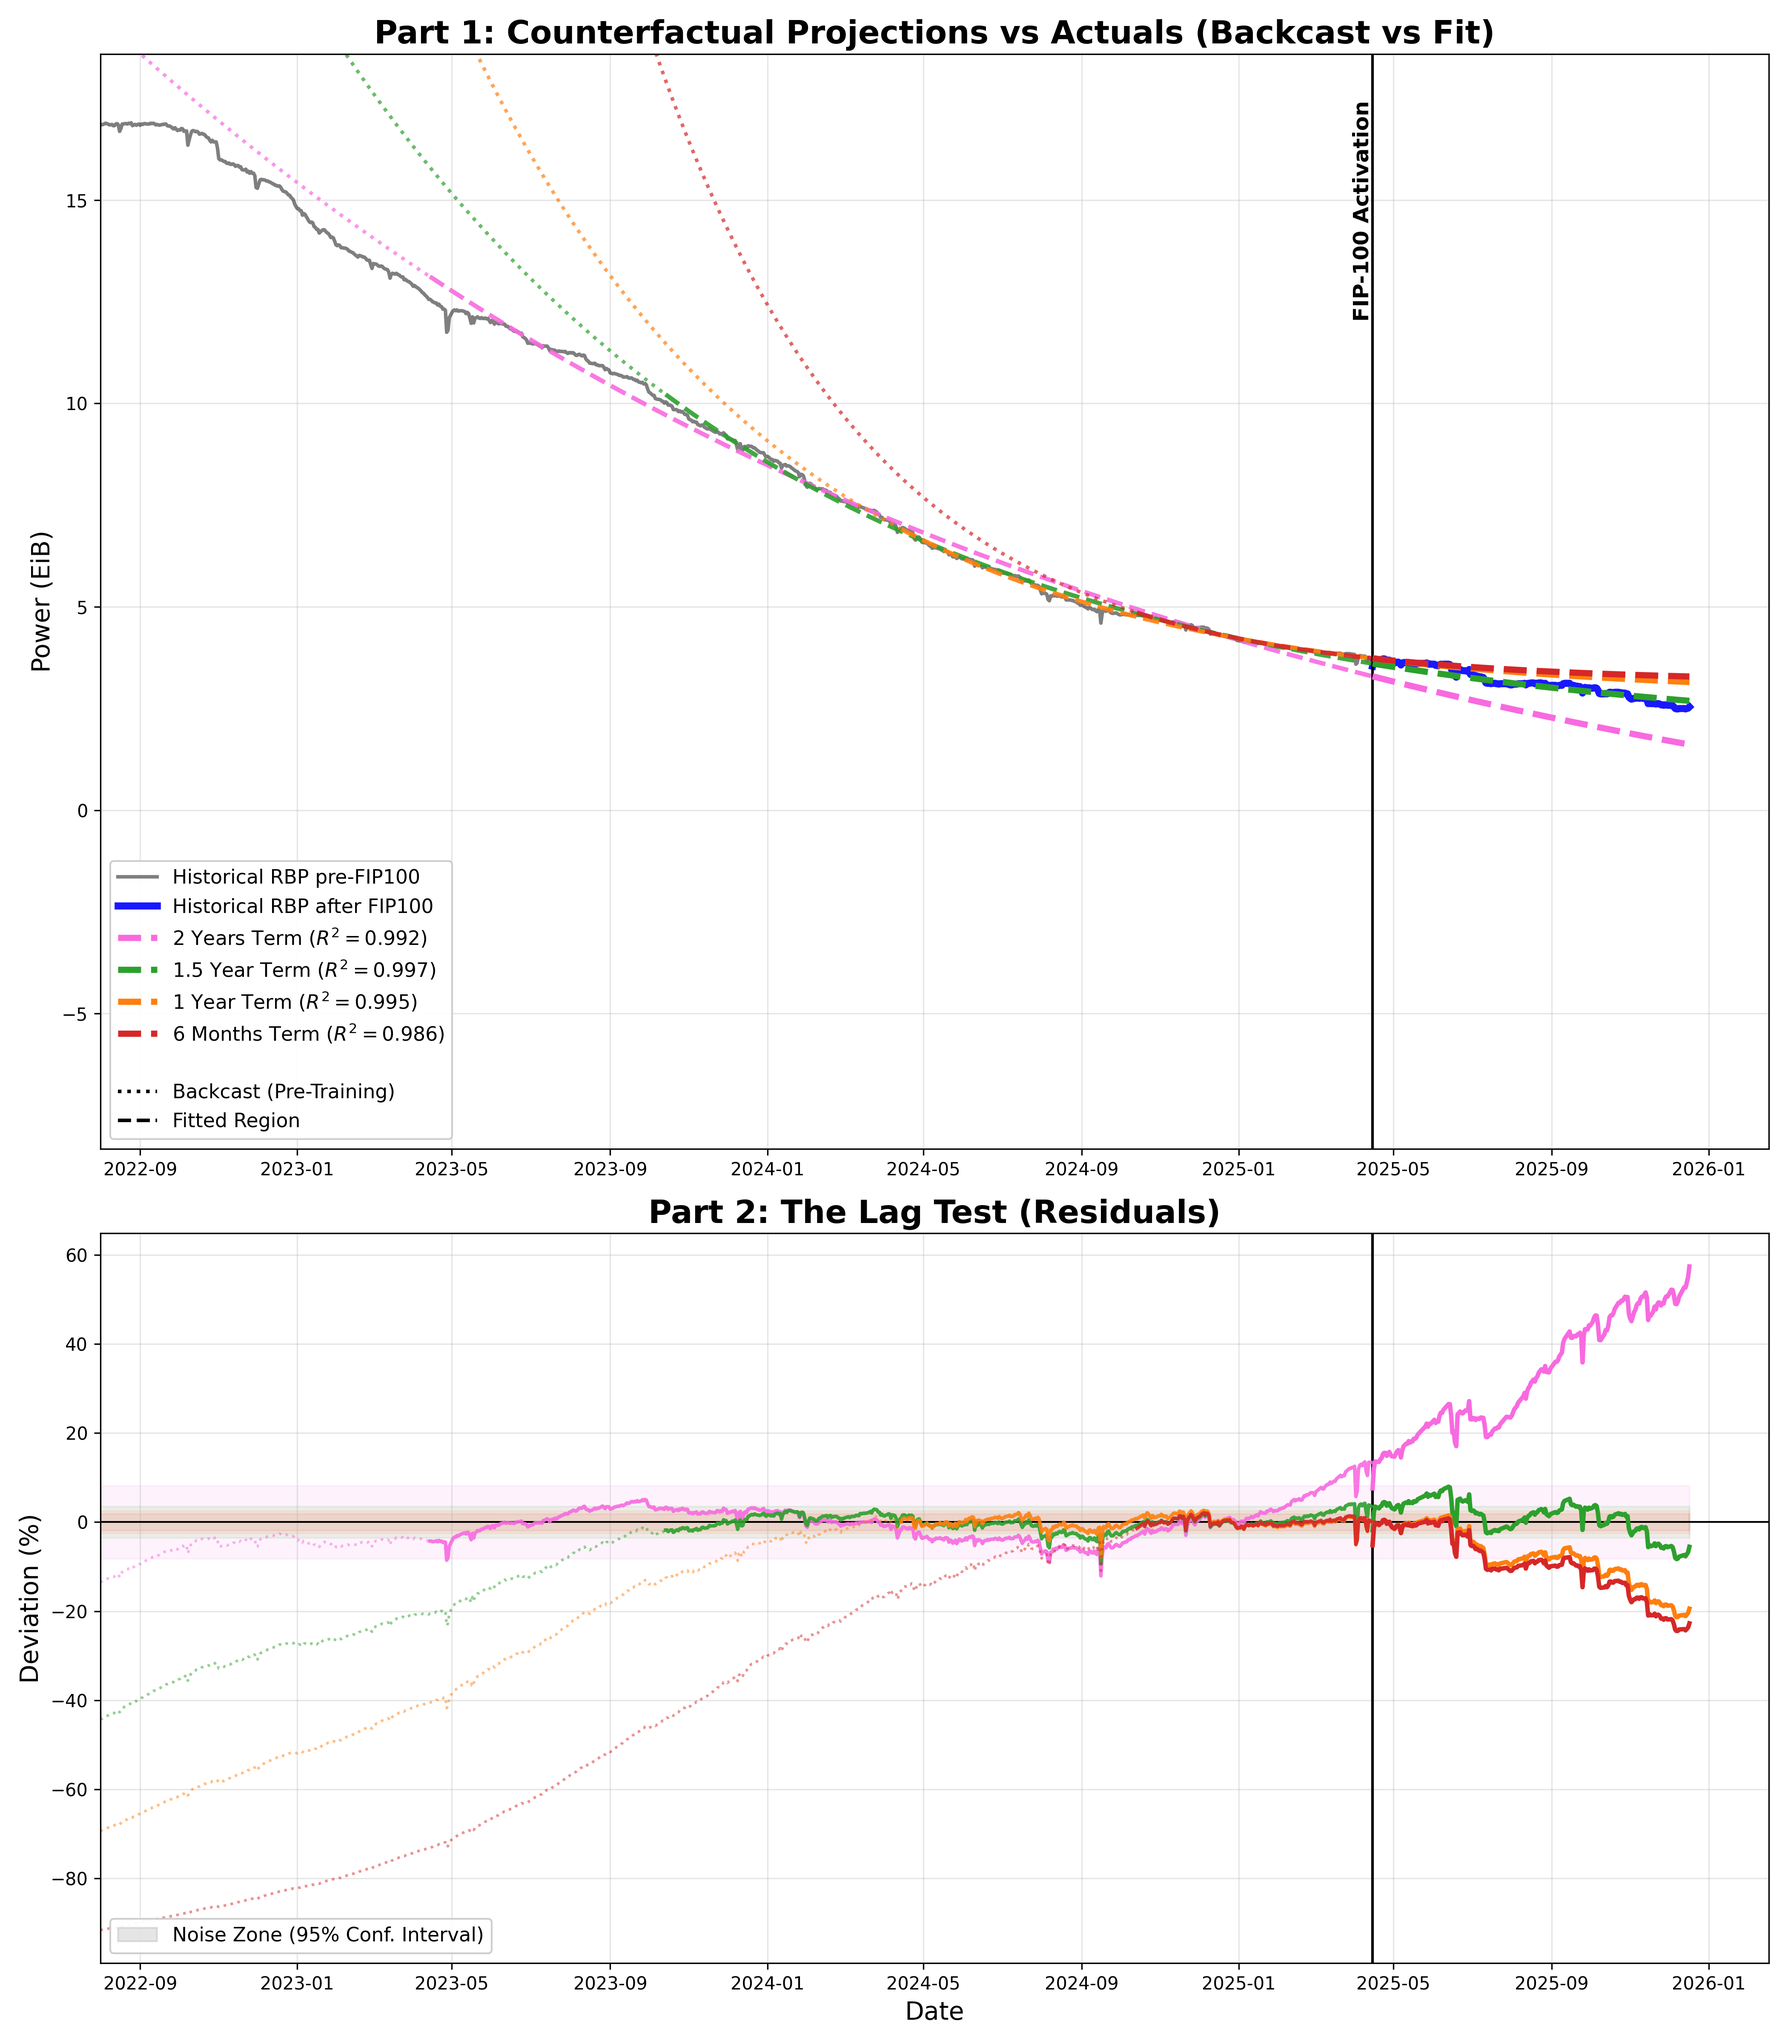
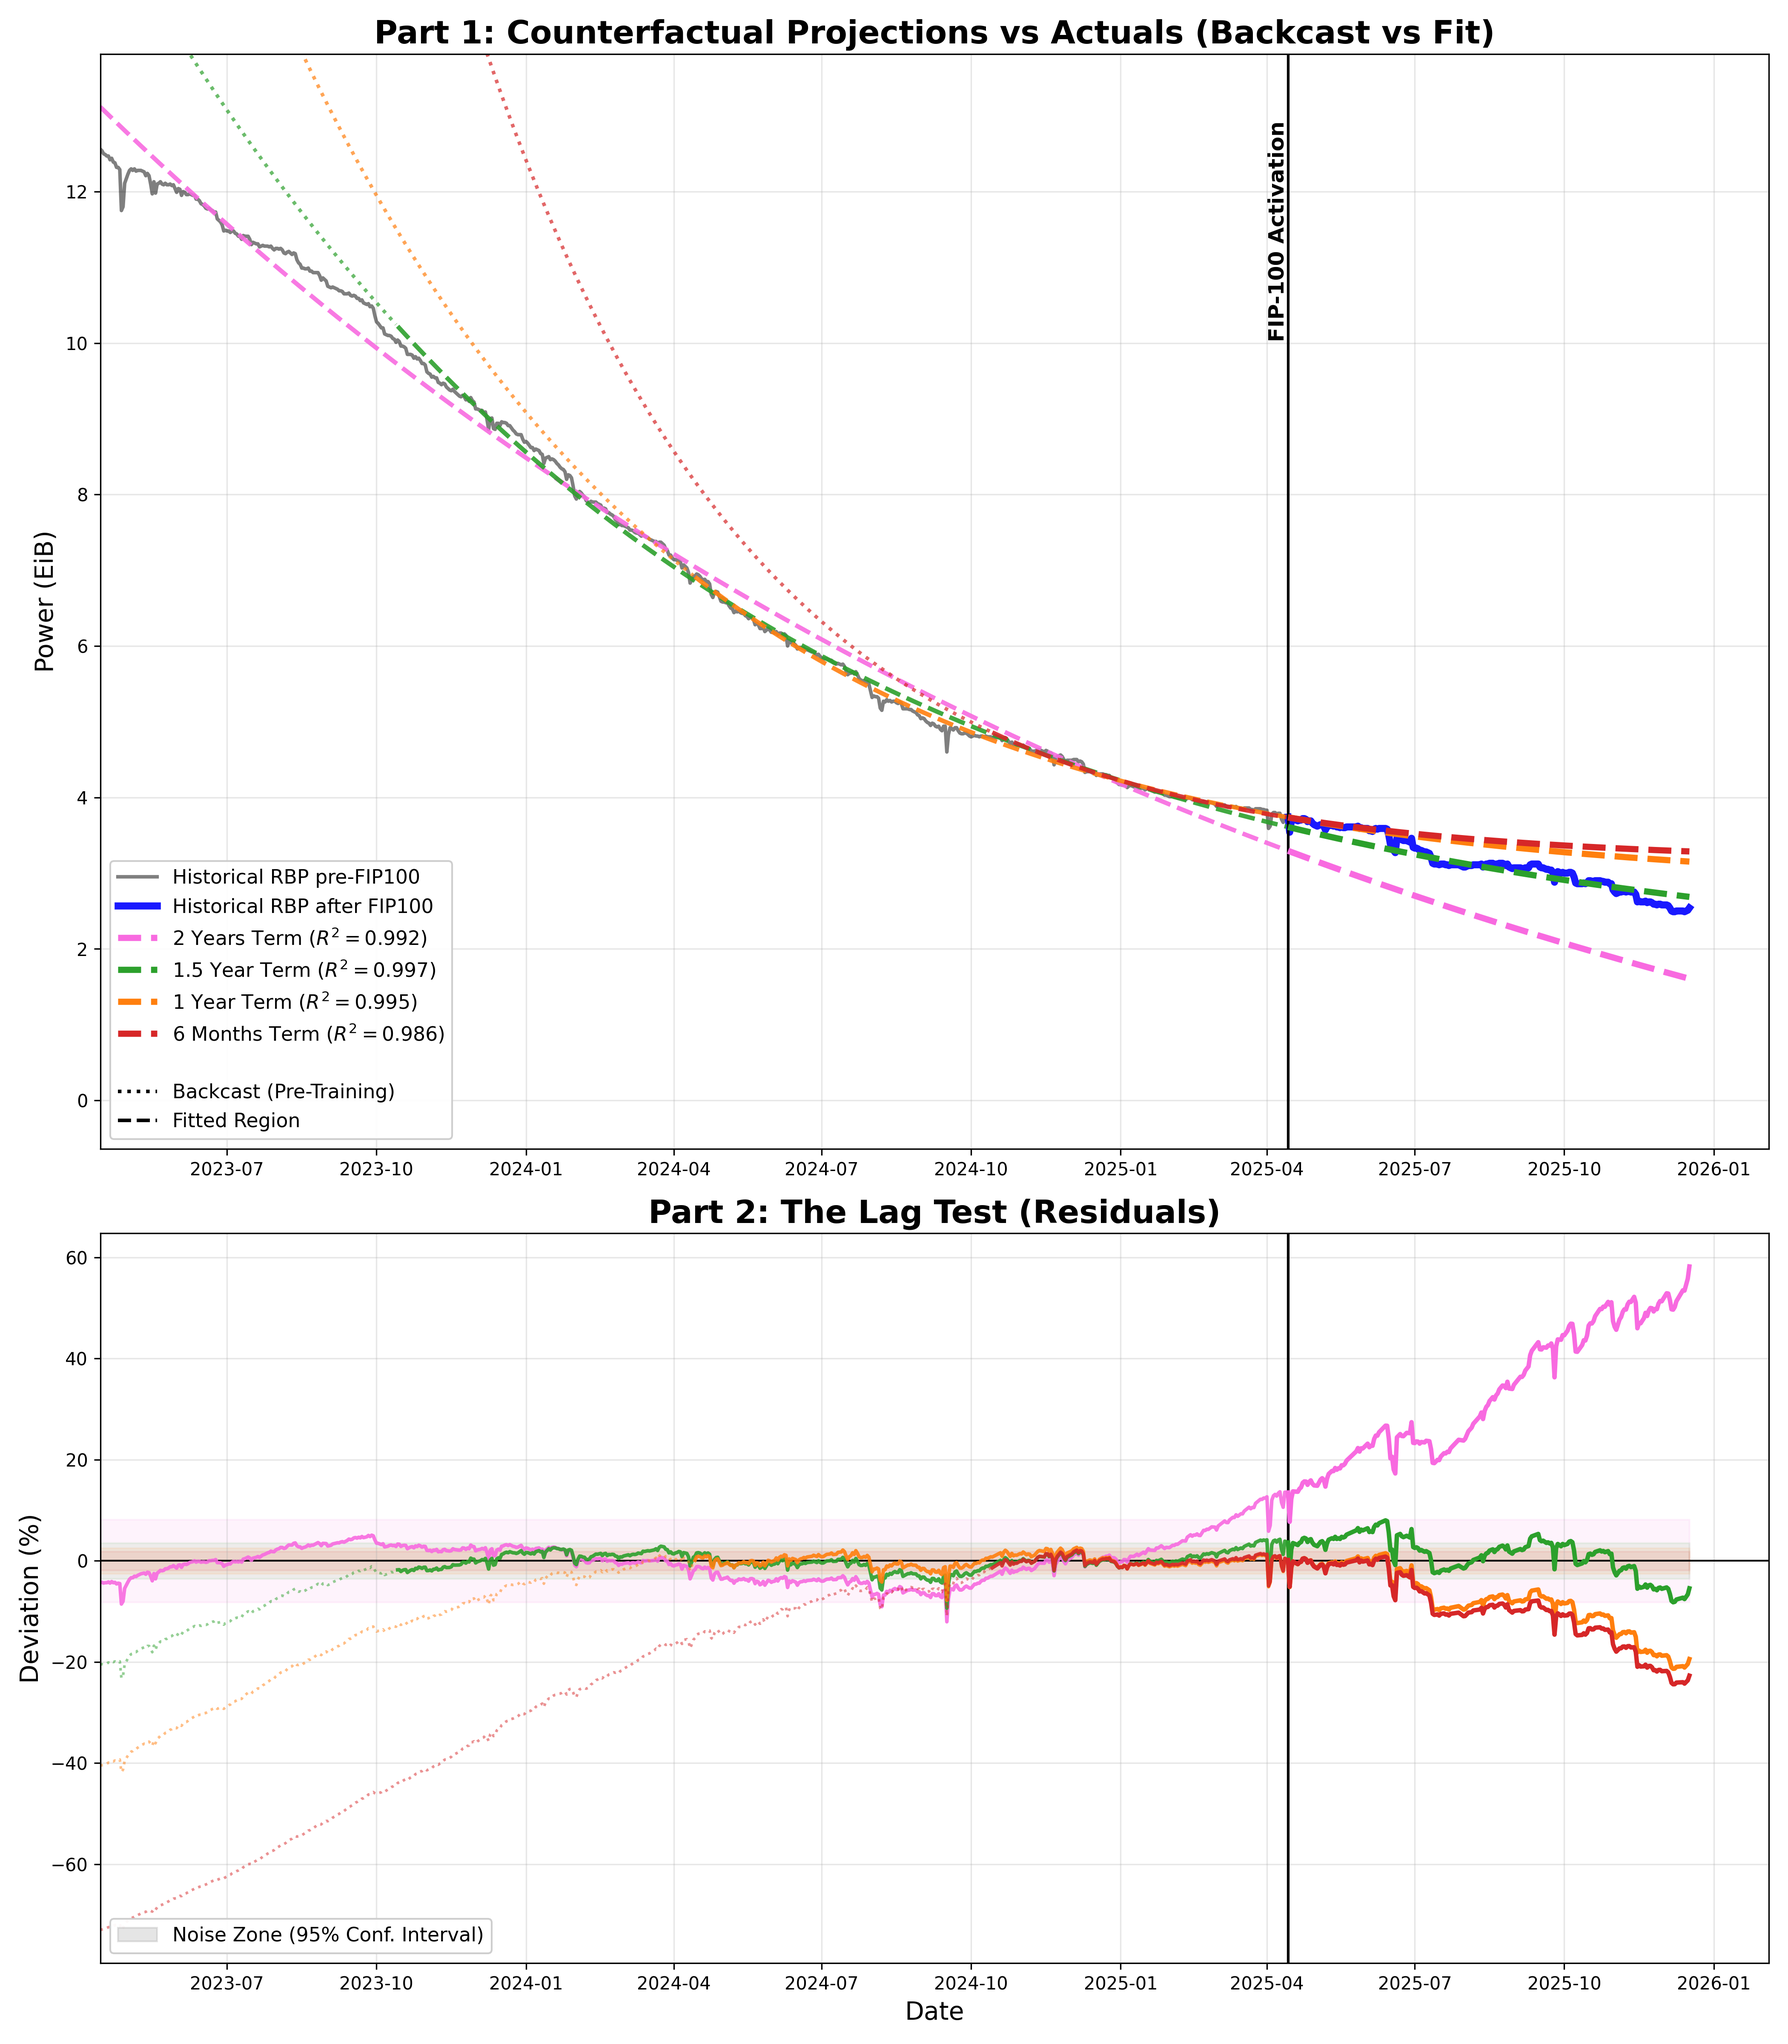
Added arima analysis

diff --git a/main.py b/main.py
@@ -1,0 +1,217 @@
+import warnings
+from statsmodels.tools.sm_exceptions import ConvergenceWarning
+
+import pandas as pd
+import numpy as np
+import matplotlib.pyplot as plt
+from pathlib import Path
+
+from statsmodels.tsa.arima.model import ARIMA
+import itertools
+
+# --- Configuration ---
+DATA_FILE = "Network_Storage_Capacity.csv"
+EVENT_DATE = pd.to_datetime("2025-04-14")     # FIP-100 Live Date
+VIEW_START_DATE = pd.to_datetime("2023-04-14")
+DPI = 300
+OUTPUT_PREFIX = "arima_global_search"
+
+# Search Ranges for Global Optimum
+# We will search over a grid of (p, d, q)
+P_RANGE = range(0, 6)   # 0 to 5
+D_RANGE = range(0, 3)   # 0 to 2
+Q_RANGE = range(0, 6)   # 0 to 5
+
+
+# -----------------------
+# Helpers
+# -----------------------
+
+def read_input_csv() -> pd.DataFrame:
+    path = Path(DATA_FILE)
+    if not path.exists():
+        candidates = list(Path(".").glob("*.csv"))
+        if not candidates:
+            raise FileNotFoundError("No CSV file found in current directory.")
+        path = candidates[0]
+        print(f"Using found file: {path}")
+    else:
+        print(f"Using file: {path}")
+
+    df = pd.read_csv(path)
+    df["stateTime"] = pd.to_datetime(df["stateTime"])
+    df = df.sort_values("stateTime")
+    return df
+
+
+def make_daily_series(df: pd.DataFrame, col: str) -> pd.Series:
+    """
+    Reindex to daily frequency and interpolate missing days.
+    """
+    s = df.set_index("stateTime")[col].astype(float).sort_index()
+    daily_idx = pd.date_range(s.index.min(), s.index.max(), freq="D")
+    s = s.reindex(daily_idx)
+    s = s.interpolate(method="time")
+    s.index.name = "stateTime"
+    return s
+
+
+def fit_arima_with_convergence(y_train: pd.Series, order: tuple[int, int, int]):
+    """
+    Fit ARIMA and return (result, aic, converged, error_str).
+    """
+    try:
+        with warnings.catch_warnings(record=True) as w:
+            warnings.simplefilter("always", ConvergenceWarning)
+
+            model = ARIMA(y_train, order=order, trend="n")
+            # Increase maxiter to give complex models a better chance
+            res = model.fit(method_kwargs={"maxiter": 200})
+
+            # Statsmodels exposes optimizer return values
+            # converged is usually present, but guard defensively.
+            mle = getattr(res, "mle_retvals", {}) or {}
+            converged = bool(mle.get("converged", True))
+
+            # If a ConvergenceWarning was raised, treat as non-converged
+            for warn in w:
+                if issubclass(warn.category, ConvergenceWarning):
+                    converged = False
+
+            aic = float(res.aic) if np.isfinite(res.aic) else np.inf
+            return res, aic, converged, None
+
+    except Exception as e:
+        return None, np.inf, False, str(e)
+
+
+def find_global_best_model(y_train: pd.Series, name: str):
+    """
+    Perform a grid search over P_RANGE, D_RANGE, Q_RANGE to find the global best AIC.
+    """
+    y_train = y_train.dropna().astype(float)
+    
+    # Generate all combinations
+    candidates = list(itertools.product(P_RANGE, D_RANGE, Q_RANGE))
+    total_candidates = len(candidates)
+    
+    print(f"\n[{name}] Starting Global Grid Search over {total_candidates} ARIMA models...")
+    print(f"   Ranges -> p: {P_RANGE}, d: {D_RANGE}, q: {Q_RANGE}")
+    
+    best_aic = np.inf
+    best_order = None
+    best_res = None
+    best_converged = False
+    
+    # Track metrics for reporting
+    converged_count = 0
+    failed_count = 0
+    
+    for i, order in enumerate(candidates):
+        # Optional progress indicator for long searches
+        if i % 20 == 0:
+            print(f"   Searching... {i}/{total_candidates} (Best AIC so far: {best_aic:.2f})", end='\r')
+            
+        res, aic, conv, err = fit_arima_with_convergence(y_train, order)
+        
+        if err:
+            failed_count += 1
+            continue
+            
+        if conv:
+            converged_count += 1
+            # Prefer converged models with lower AIC
+            if aic < best_aic:
+                best_aic = aic
+                best_order = order
+                best_res = res
+                best_converged = True
+        else:
+            # If we haven't found any converged model yet, we might track the best non-converged one as fallback
+            # But strictly speaking, we want the best *converged* one.
+            pass
+
+    print(f"\n[{name}] Search Complete.")
+    print(f"   Converged: {converged_count}, Failed/Non-conv: {total_candidates - converged_count}")
+    
+    if best_res is None:
+        raise RuntimeError(f"[{name}] No model converged during grid search.")
+        
+    print(f"[{name}] GLOBAL BEST Selected: ARIMA{best_order} with AIC={best_aic:.2f} ✅")
+    return best_res, best_order, best_aic, best_converged
+
+
+# -----------------------
+# Core Plot
+# -----------------------
+
+def plot_arima_forecast(series: pd.Series, name: str):
+    series_view = series[series.index >= VIEW_START_DATE].copy()
+    train = series_view[series_view.index < EVENT_DATE].copy()
+    post = series_view[series_view.index >= EVENT_DATE].copy()
+
+    if len(train) < 180:
+        raise ValueError(f"[{name}] Not enough pre-event data (need ~180+ daily points).")
+
+    # Find Global Best Model
+    res, chosen_order, aic, converged = find_global_best_model(train, name)
+
+    # Forecast post period
+    steps = len(post)
+    fc = res.get_forecast(steps=steps)
+    fc_mean = fc.predicted_mean
+    fc_ci = fc.conf_int(alpha=0.05)  # 95% CI
+
+    # Align indexes
+    fc_mean.index = post.index
+    fc_ci.index = post.index
+
+    # Plot: Actual + Forecast + CI
+    fig, ax = plt.subplots(figsize=(14, 7))
+
+    ax.plot(series_view.index, series_view.values, color="black", alpha=0.35, lw=2, label=f"Actual {name}")
+    ax.plot(post.index, post.values, color="blue", lw=3, alpha=0.9, label=f"Actual {name} (post FIP-100)")
+
+    ax.plot(fc_mean.index, fc_mean.values, color="red", lw=2.5, linestyle="--",
+            label=f"Global Best ARIMA{chosen_order} (AIC={aic:.0f})")
+
+    ax.fill_between(fc_ci.index, fc_ci.iloc[:, 0].values, fc_ci.iloc[:, 1].values, color="red", alpha=0.15, label="95% Confidence Interval")
+
+    ax.axvline(EVENT_DATE, color="black", lw=1.5)
+    ax.text(EVENT_DATE, ax.get_ylim()[1]*0.98, " FIP-100 Activation",
+            ha="right", va="top", fontsize=11, fontweight="bold", rotation=90)
+
+    conv_tag = "converged" if converged else "not converged"
+    ax.set_title(f"Global Optimum ARIMA Forecast vs Actual — {name}\n(Best Order={chosen_order}, AIC={aic:.2f})",
+                 fontsize=15, fontweight="bold")
+    ax.set_ylabel("Power (EiB)", fontsize=12)
+    ax.set_xlabel("Date", fontsize=12)
+    ax.grid(True, alpha=0.3)
+    ax.legend(loc="lower left", fontsize=10, framealpha=0.95)
+    ax.set_xlim(left=VIEW_START_DATE)
+
+    out = f"arima_{name.replace(' ', '_').replace('(', '').replace(')', '').lower()}_global_opt.png"
+    plt.tight_layout()
+    plt.savefig(out, dpi=DPI)
+    plt.close()
+    print(f"[{name}] Saved plot to {out}")
+
+
+def main():
+    try:
+        df = read_input_csv()
+    except FileNotFoundError as e:
+        print(e)
+        return
+
+    rbp = make_daily_series(df, "Network RB Power")
+    qap = make_daily_series(df, "Network QA Power")
+
+    plot_arima_forecast(rbp, "Raw Byte Power (RBP)")
+    plot_arima_forecast(qap, "Quality Adjusted Power (QAP)")
+
+    print("\nGlobal ARIMA search and analysis complete.")
+
+
+if __name__ == "__main__":
+    main()

diff --git a/exponential.py b/exponential.py
@@ -12,7 +12,7 @@ EVENT_DATE = pd.to_datetime('2025-04-14')  # FIP-100 Live Date
 
 # View window: 1.5 years prior to FIP-100 (approx Oct 2023). 
 # We set it slightly earlier (Aug 2023) to see the backcast clearly.
-VIEW_START_DATE = pd.to_datetime('2022-08-01') 
+VIEW_START_DATE = pd.to_datetime('2023-04-14') 
 DPI = 300
 
 # Windows to analyze: (Start Date, Label, Color)

diff --git a/README.md b/README.md
@@ -3,7 +3,7 @@
 **Author:** Luca – CryptoEconLab  
 **Date:** Dec 2025
 
-This repository contains Python analytical tools designed to assess the impact of FIP-100 on the Filecoin network's storage capacity. It provides statistical frameworks to compare network behavior before and after the protocol change using both linear and exponential models.
+This repository contains Python analytical tools designed to assess the impact of FIP-100 on the Filecoin network's storage capacity. It provides statistical frameworks to compare network behavior before and after the protocol change using linear, exponential, and ARIMA models.
 
 ## 🛠 Prerequisites & Installation
 
@@ -28,6 +28,9 @@ This project uses [uv](https://github.com/astral-sh/uv) for fast Python dependen
 
     # Run Exponential Counterfactual Analysis
     uv run exponential.py
+
+    # Run ARIMA Global Optimization Analysis
+    uv run arima.py
     ```
 
 ---
@@ -38,7 +41,7 @@ This project uses [uv](https://github.com/astral-sh/uv) for fast Python dependen
 
 This module fits linear regression models to **Raw Byte Power (RBP)** and **Quality Adjusted Power (QAP)** to detect changes in the *speed* of network growth or decline.
 
-**Output:** `linear_analysis.png`
+**Output:** `linear_r2_analysis_with_slope.png`
 
 **How to Interpret:**
 * **The Slopes:** The legend displays the slope in **PiB/day**.
@@ -49,9 +52,9 @@ This module fits linear regression models to **Raw Byte Power (RBP)** and **Qual
 
 ### 2. Exponential Counterfactual Analysis (`exponential.py`)
 
-This module tests whether the network experienced a "structural break" by fitting exponential decay models to historical data and projecting them forward. It uses multiple training windows (2 years, 1.5 years, 1 year and 6 months) to check for robustness.
+This module tests whether the network experienced a "structural break" by fitting exponential decay models to historical data and projecting them forward. It uses multiple training windows (2 years, 1.5 years, 1 year, and 6 months) to check for robustness.
 
-**Output:** `exponential_analysis.png`
+**Output:** `combined_lag_analysis_4models.png`
 
 **How to Interpret:**
 
@@ -70,3 +73,18 @@ This module tests whether the network experienced a "structural break" by fittin
 * **The Lag:** Look at *when* the line leaves the shaded zone.
     * **Immediate Break:** If the line drops out and stays out of the zone immediately at the vertical line, the FIP likely caused an immediate shock.
     * **Delayed Break:** If the line stays within the zone for months before dropping, the cause is not directly imputable to FIP-100.
+
+### 3. ARIMA Counterfactual Analysis (`arima.py`)
+
+This module performs a rigorous **Global Grid Search** to find the optimal **ARIMA (Auto-Regressive Integrated Moving Average)** model for the pre-FIP data. Unlike simple curves, ARIMA captures complex dynamics like momentum ($p$), trend ($d$), and shock memory ($q$).
+
+**Output:** `arima_raw_byte_power_rbp_global_opt.png`
+
+**How to Interpret:**
+
+* **Red Dashed Line (The Counterfactual):** This represents the **statistically predicted path** of the network if FIP-100 had never happened, based entirely on pre-existing momentum and volatility.
+* **Pink Shaded Area (Confidence Interval):** The **95% Confidence Interval**.
+    * *Interpretation:* This is the "zone of expected behavior." As long as reality stays inside this tunnel, statistically speaking, nothing "new" has happened.
+* **Blue Line (Actual Reality):**
+    * **No Shock:** If the Blue line tracks the Red dashed line and stays **inside** the pink zone, it provides strong statistical evidence that FIP-100 had **no immediate impact** (the decline is driven by legacy momentum).
+    * **Shock:** If the Blue line breaks **outside** the pink zone (diverges), it indicates a true structural break caused by the event.
